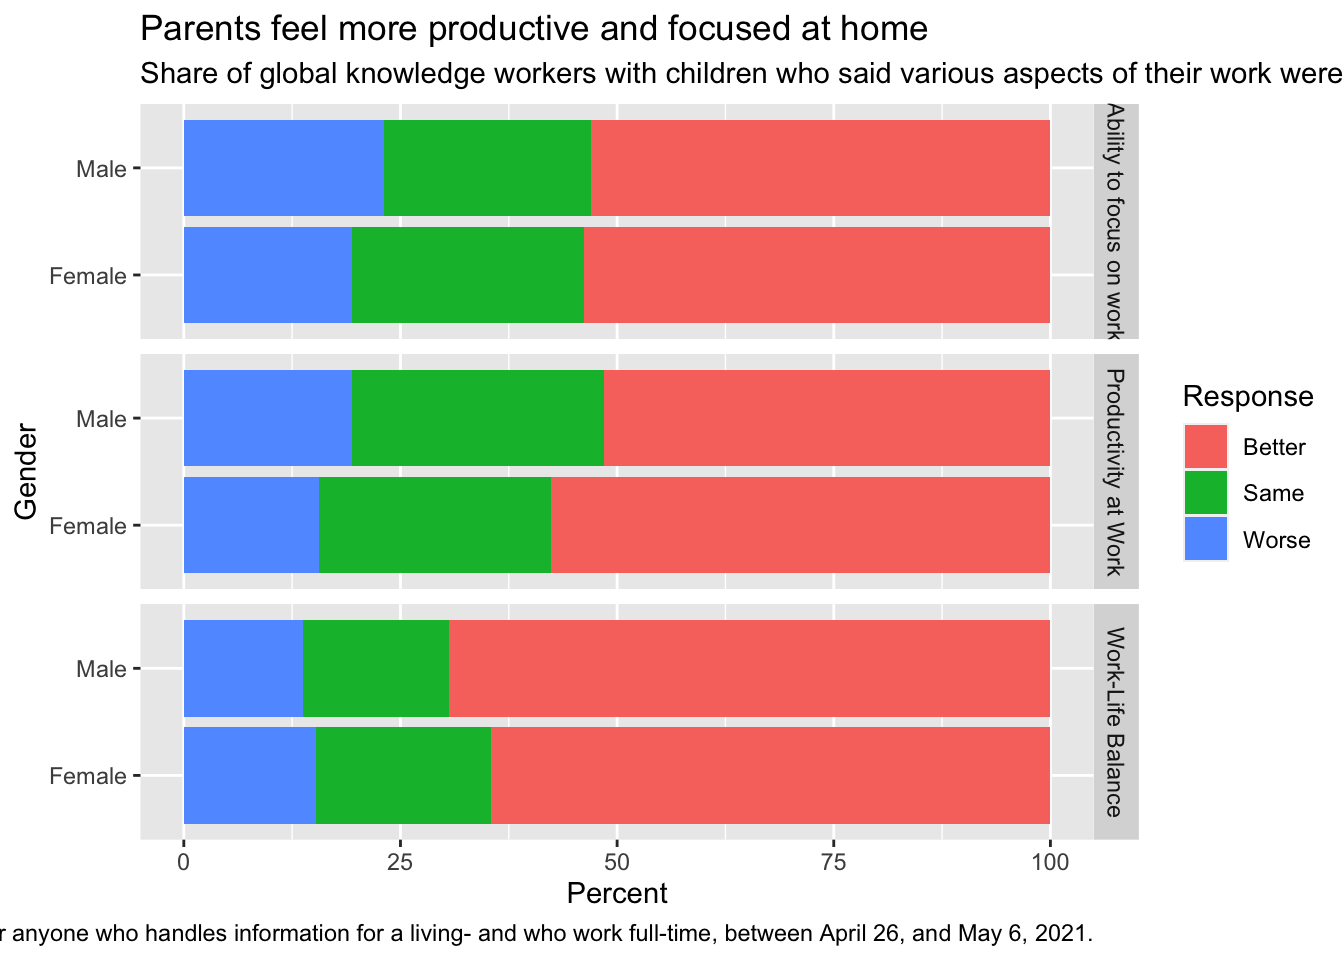
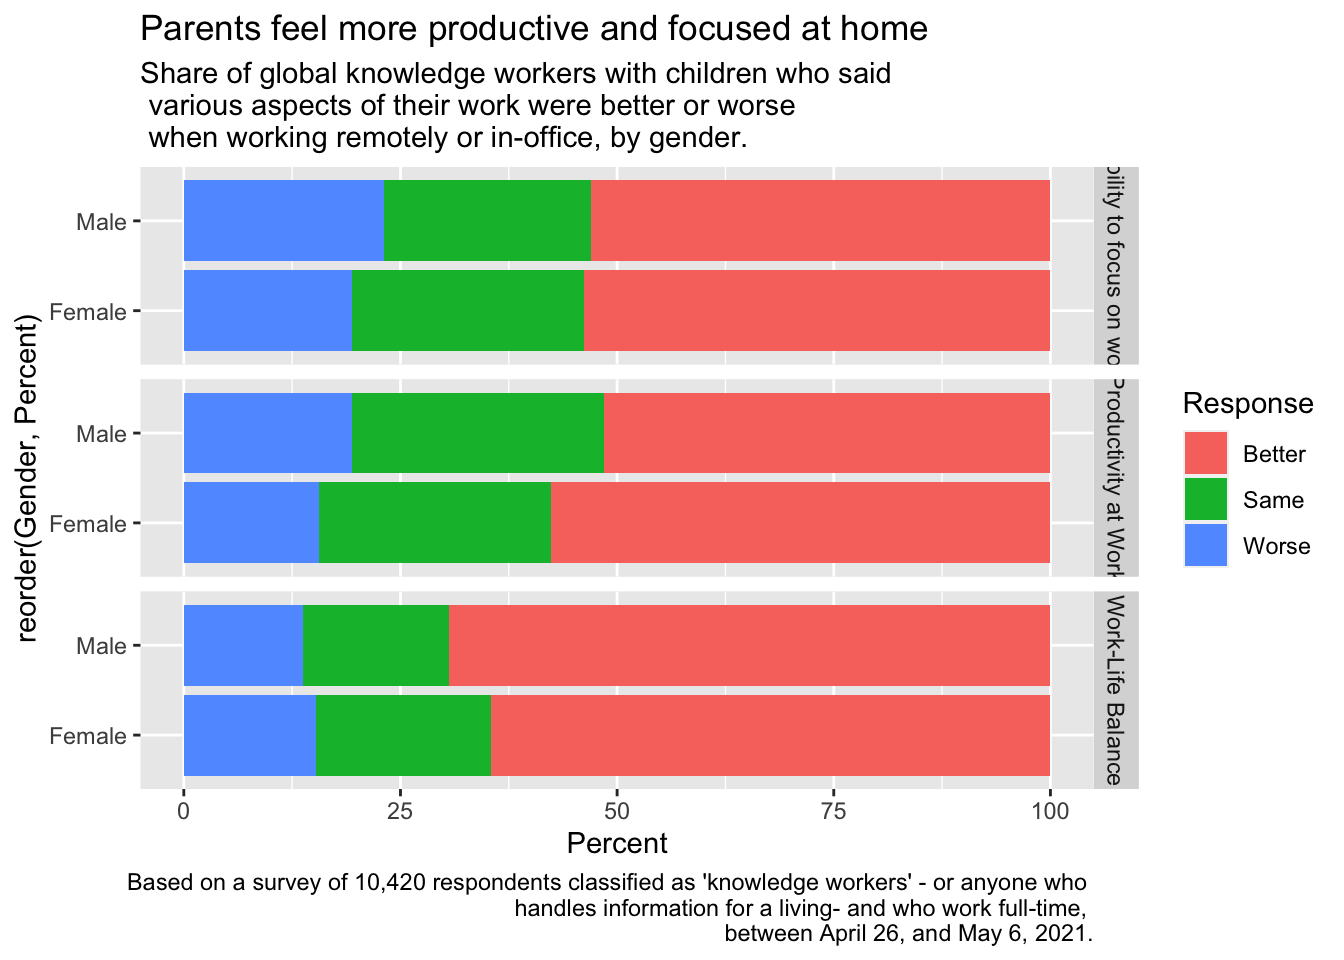
Viz2

diff --git a/docs/visualization_exercise.html b/docs/visualization_exercise.html
@@ -260,12 +260,11 @@ The following object is masked from 'package:readr':
 <div class="cell">
 <div class="sourceCode cell-code" id="cb8"><pre class="sourceCode r code-with-copy"><code class="sourceCode r"><span id="cb8-1"><a href="#cb8-1" aria-hidden="true" tabindex="-1"></a><span class="fu">view</span>(Visualization_Data)</span>
 <span id="cb8-2"><a href="#cb8-2" aria-hidden="true" tabindex="-1"></a></span>
-<span id="cb8-3"><a href="#cb8-3" aria-hidden="true" tabindex="-1"></a>p<span class="ot">&lt;-</span><span class="fu">ggplot</span>(<span class="at">data=</span>Visualization_Data, <span class="fu">aes</span>(<span class="at">x=</span>Gender, <span class="at">y=</span>Percent, <span class="at">fill=</span>Response)) <span class="sc">+</span></span>
+<span id="cb8-3"><a href="#cb8-3" aria-hidden="true" tabindex="-1"></a>p<span class="ot">&lt;-</span><span class="fu">ggplot</span>(<span class="at">data=</span>Visualization_Data, <span class="fu">aes</span>(<span class="at">x=</span><span class="fu">reorder</span>(Gender, Percent), <span class="at">y=</span>Percent, <span class="at">fill=</span>Response)) <span class="sc">+</span> </span>
 <span id="cb8-4"><a href="#cb8-4" aria-hidden="true" tabindex="-1"></a>  <span class="fu">geom_bar</span>(<span class="at">stat=</span><span class="st">"identity"</span>) <span class="sc">+</span> <span class="fu">coord_flip</span>() <span class="sc">+</span><span class="fu">facet_grid</span>(Question <span class="sc">~</span> .) <span class="sc">+</span></span>
-<span id="cb8-5"><a href="#cb8-5" aria-hidden="true" tabindex="-1"></a>  <span class="fu">labs</span>(<span class="at">title=</span><span class="st">"Parents feel more productive and focused at home"</span>, <span class="at">subtitle=</span><span class="st">"Share of global knowledge workers with children who said various aspects of their work were better or worse when working remotely or in-office, by gender."</span>, <span class="at">caption=</span><span class="st">"Based on a survey of 10,420 respondents classified as 'knowledge workers'- or anyone who handles information for a living- and who work full-time, between April 26, and May 6, 2021."</span>) </span>
-<span id="cb8-6"><a href="#cb8-6" aria-hidden="true" tabindex="-1"></a></span>
-<span id="cb8-7"><a href="#cb8-7" aria-hidden="true" tabindex="-1"></a></span>
-<span id="cb8-8"><a href="#cb8-8" aria-hidden="true" tabindex="-1"></a>p                        </span></code><button title="Copy to Clipboard" class="code-copy-button"><i class="bi"></i></button></pre></div>
+<span id="cb8-5"><a href="#cb8-5" aria-hidden="true" tabindex="-1"></a>  <span class="fu">labs</span>(<span class="at">title=</span><span class="st">"Parents feel more productive and focused at home"</span>, <span class="at">subtitle=</span><span class="st">"Share of global knowledge workers with children who said </span><span class="sc">\n</span><span class="st"> various aspects of their work were better or worse </span><span class="sc">\n</span><span class="st"> when working remotely or in-office, by gender."</span>, </span>
+<span id="cb8-6"><a href="#cb8-6" aria-hidden="true" tabindex="-1"></a><span class="at">caption=</span><span class="st">"Based on a survey of 10,420 respondents classified as 'knowledge workers' - or anyone who </span><span class="sc">\n</span><span class="st"> handles information for a living- and who work full-time, </span><span class="sc">\n</span><span class="st"> between April 26, and May 6, 2021."</span>) </span>
+<span id="cb8-7"><a href="#cb8-7" aria-hidden="true" tabindex="-1"></a>p                        </span></code><button title="Copy to Clipboard" class="code-copy-button"><i class="bi"></i></button></pre></div>
 <div class="cell-output-display">
 <p><img src="visualization_exercise_files/figure-html/unnamed-chunk-2-1.png" class="img-fluid" width="672"></p>
 </div>
@@ -276,12 +275,18 @@ The following object is masked from 'package:readr':
 <span id="cb9-2"><a href="#cb9-2" aria-hidden="true" tabindex="-1"></a><span class="fu">library</span>(shadowtext)</span>
 <span id="cb9-3"><a href="#cb9-3" aria-hidden="true" tabindex="-1"></a></span>
 <span id="cb9-4"><a href="#cb9-4" aria-hidden="true" tabindex="-1"></a></span>
-<span id="cb9-5"><a href="#cb9-5" aria-hidden="true" tabindex="-1"></a>p <span class="sc">+</span> <span class="fu">geom_shadowtext</span>(<span class="at">data=</span><span class="fu">subset</span>(Visualization_Data, Response<span class="sc">==</span><span class="st">"Same"</span> <span class="sc">&amp;</span> Gender<span class="sc">==</span><span class="st">"Male"</span> <span class="sc">&amp;</span> Question<span class="sc">==</span><span class="st">"Ability to focus on work"</span>),<span class="fu">aes</span>(<span class="at">y =</span> Percent, <span class="at">x =</span> Gender, <span class="at">label=</span><span class="st">"No Change"</span>), <span class="at">hjust=</span><span class="dv">0</span>, <span class="at">nudge_x=</span><span class="fl">0.1</span>,<span class="at">color=</span><span class="st">"black"</span>,<span class="at">bg.colour=</span><span class="st">"white"</span>, <span class="at">size=</span><span class="dv">3</span>)</span></code><button title="Copy to Clipboard" class="code-copy-button"><i class="bi"></i></button></pre></div>
+<span id="cb9-5"><a href="#cb9-5" aria-hidden="true" tabindex="-1"></a>p2 <span class="ot">&lt;-</span> p <span class="sc">+</span> <span class="fu">geom_shadowtext</span>(<span class="at">data=</span><span class="fu">subset</span>(Visualization_Data, Response<span class="sc">==</span><span class="st">"Same"</span> <span class="sc">&amp;</span> Gender<span class="sc">==</span><span class="st">"Male"</span> <span class="sc">&amp;</span> Question<span class="sc">==</span><span class="st">"Ability to focus on work"</span>),<span class="fu">aes</span>(<span class="at">y =</span> Percent, <span class="at">x =</span> Gender, <span class="at">label=</span><span class="st">"No Change"</span>), <span class="at">hjust=</span><span class="dv">0</span>, <span class="at">nudge_x=</span><span class="fl">0.1</span>,<span class="at">color=</span><span class="st">"black"</span>,<span class="at">bg.colour=</span><span class="st">"white"</span>, <span class="at">size=</span><span class="dv">3</span>) <span class="sc">+</span>   <span class="fu">scale_fill_manual</span>(<span class="at">values=</span><span class="fu">c</span>(<span class="st">"orchid3"</span>,</span>
+<span id="cb9-6"><a href="#cb9-6" aria-hidden="true" tabindex="-1"></a>                             <span class="st">"white"</span>,</span>
+<span id="cb9-7"><a href="#cb9-7" aria-hidden="true" tabindex="-1"></a>                             <span class="st">"darkgreen"</span>)) <span class="sc">+</span> <span class="fu">theme</span>(<span class="at">axis.title.x=</span><span class="fu">element_blank</span>(), <span class="at">axis.title.y=</span><span class="fu">element_blank</span>(), <span class="at">plot.title=</span><span class="fu">element_text</span>(<span class="at">hjust=</span><span class="sc">-</span><span class="fl">0.2</span>), <span class="at">plot.caption=</span><span class="fu">element_text</span>(<span class="at">hjust =</span> <span class="fl">0.2</span>), <span class="at">axis.text.y=</span><span class="fu">element_blank</span>(), <span class="at">axis.ticks.y=</span><span class="fu">element_blank</span>())</span>
+<span id="cb9-8"><a href="#cb9-8" aria-hidden="true" tabindex="-1"></a></span>
+<span id="cb9-9"><a href="#cb9-9" aria-hidden="true" tabindex="-1"></a></span>
+<span id="cb9-10"><a href="#cb9-10" aria-hidden="true" tabindex="-1"></a>p2</span></code><button title="Copy to Clipboard" class="code-copy-button"><i class="bi"></i></button></pre></div>
 <div class="cell-output-display">
 <p><img src="visualization_exercise_files/figure-html/unnamed-chunk-3-1.png" class="img-fluid" width="672"></p>
 </div>
 </div>
-<p>Getting there. Still more to do!</p>
+<p>##Not bad…</p>
+<p>Getting there. Still more to do! How to get those pesky titles on top??</p>
 
 
 </section>
